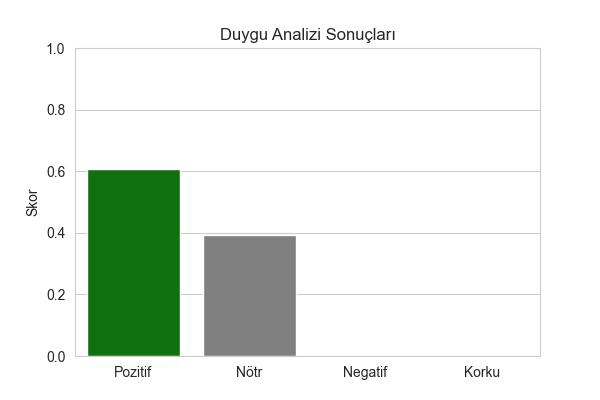
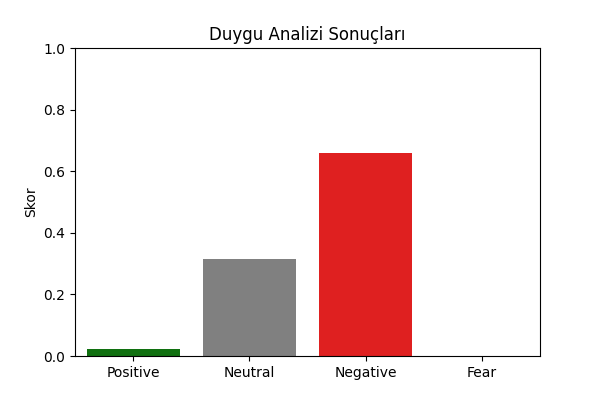
language changes
language changes

diff --git a/duyguAnalizi/templates/index.html b/duyguAnalizi/templates/index.html
@@ -26,18 +26,22 @@
         {% if request.method == 'POST' and 'text' in request.form %}
             <div class="entered-text mb-3">
                 <label for="text" class="form-label">Analiz Edilen Metin:</label>
-                <div class="box" style="background-color: ##e9ecef;">{{ request.form['text'] }}</div>
+                <div class="box" style="background-color: #e9ecef;">{{ request.form['text'] }}</div>
             </div>
         {% endif %}
         {% if sentiment %}
             <div class="result mt-4">
                 <h3>Analiz Sonuçları:</h3>
                 <p>Duygu Durumu: <strong>{{ sentiment }}</strong></p>
-                <p>Pozitif Skor: {{ scores.pos }}</p>
-                <p>Nötr Skor: {{ scores.neu }}</p>
-                <p>Negatif Skor: {{ scores.neg }}</p>
-                <p>Korku Skoru: {{ scores.fear }}</p>
-                <img src="{{ url_for('static', filename='sentiment_analysis.png') }}" alt="Duygu Analizi Grafiği" class="img-fluid mt-3">
+                {% if scores %}
+                    <h4>Duygu Skorları:</h4>
+                    <ul>
+                        {% for label, score in scores.items() %}
+                            <li>{{ label }}: {{ score | round(2) }}</li>
+                        {% endfor %}
+                    </ul>
+                    <img src="{{ url_for('static', filename='sentiment_analysis.png') }}" alt="Duygu Analizi Grafiği" class="img-fluid mt-3">
+                {% endif %}
             </div>
         {% endif %}
     </div>

diff --git a/duyguAnalizi/app.py b/duyguAnalizi/app.py
@@ -1,4 +1,5 @@
 from flask import Flask, render_template, request
+from transformers import pipeline
 from nltk.sentiment import SentimentIntensityAnalyzer
 from deep_translator import GoogleTranslator
 import matplotlib.pyplot as plt
@@ -13,8 +14,11 @@ nltk.download('vader_lexicon')
 # Loglama ayarları yapılıyor
 logging.basicConfig(level=logging.INFO)
 
-# Flask uygulaması oluşturuluyor
+# Flask uygulaması oluştur
 app = Flask(__name__)
+
+# Hugging Face ve NLTK duygu analizi modelleri
+sentiment_pipeline = pipeline("text-classification", model="bhadresh-savani/distilbert-base-uncased-emotion")
 sia = SentimentIntensityAnalyzer()
 
 # "Korku" ile ilişkili kelimelerin listesini verdik korku için daha hassas bir analiz yapabilmek için
@@ -25,84 +29,88 @@ def translate_turkish_to_english(text):
     try:
         return GoogleTranslator(source='tr', target='en').translate(text)
     except Exception as e:
-        return f"Çeviri sırasında hata oluştu: {e}"
-
-# Duygu analizi ve grafik oluşturma fonksiyonu oluşturuluyor
+        logging.error(f"Çeviri sırasında hata oluştu: {e}")
+        return None
+# Ana sayfa rotası
+# Duygu analizi ve grafik oluşturma fonksiyonu
 def sentiment_analyzer_and_plot(text):
     # Metni İngilizceye çevir
     translated_text = translate_turkish_to_english(text)
-    logging.info(f"Translated Text: {translated_text}")
+    if not translated_text:
+        return "Çeviri sırasında hata oluştu.", {}
 
-    # Eğer çeviri sırasında hata oluştuysa hata mesajını döndür
-    if "Çeviri sırasında hata oluştu" in translated_text:
-        return translated_text, {'pos': 0, 'neu': 0, 'neg': 0, 'fear': 0}
+    # Hugging Face duygu analizi yap
+    analysis_results_hf = sentiment_pipeline(translated_text)
+    logging.info(f"Hugging Face Analysis Results: {analysis_results_hf}")
 
-    # VADER ile duygu analizi yap ve sonuçları al
-    sentiment_scores = sia.polarity_scores(translated_text)
-    logging.info(f"Sentiment Scores: {sentiment_scores}")
+    # NLTK duygu analizi yap
+    sentiment_scores_nltk = sia.polarity_scores(translated_text)
+    logging.info(f"NLTK Sentiment Scores: {sentiment_scores_nltk}")
 
-    # "Korku" analizini metin üzerinde kontrol et ve sonucu kaydet
+    # Duyguları ve skorları ayrıştır ve birleştir
+    scores_hf = {result['label']: result['score'] for result in analysis_results_hf}
+    scores_nltk = {'pos': sentiment_scores_nltk['pos'], 'neu': sentiment_scores_nltk['neu'], 'neg': sentiment_scores_nltk['neg']}
     fear_score = any(keyword in text.lower() for keyword in FEAR_KEYWORDS)
-    sentiment_scores['fear'] = 1 if fear_score else 0
 
-    # Duygu analiz sonuçlarını görselleştir ve kaydet
-    labels = ['Pozitif', 'Nötr', 'Negatif', 'Korku']
+    # Skorları normalize et
+    total_score = sum(scores_hf.values()) + sum(scores_nltk.values()) + (1 if fear_score else 0)
+    if total_score > 0:
+        scores_hf = {label: score / total_score for label, score in scores_hf.items()}
+        scores_nltk = {label: score / total_score for label, score in scores_nltk.items()}
+        scores_hf['fear'] = (1 if fear_score else 0) / total_score
+
+    # Duygular ve skorlar
+    labels = ['Positive', 'Neutral', 'Negative', 'Fear']
     values = [
-        sentiment_scores['pos'],
-        sentiment_scores['neu'],
-        sentiment_scores['neg'],
-        sentiment_scores['fear']
+        scores_hf.get("joy", 0) + scores_hf.get("love", 0) + scores_nltk.get('pos', 0),  # Pozitif duygular
+        scores_hf.get("neutral", 0) + scores_nltk.get('neu', 0),  # Nötr
+        scores_hf.get("anger", 0) + scores_hf.get("sadness", 0) + scores_hf.get("disgust", 0) + scores_nltk.get('neg', 0),  # Negatif duygular
+        scores_hf.get('fear', 0)  # Korku
     ]
 
-    # Seaborn ile grafik oluşturma ve kaydetme
+    # Grafik oluşturma
     plt.figure(figsize=(6, 4))
-    sns.set_style("whitegrid")  # Stil ayarı
     sns.barplot(x=labels, y=values, palette=['green', 'gray', 'red', 'purple'])
     plt.title('Duygu Analizi Sonuçları')
     plt.ylabel('Skor')
     plt.ylim(0, 1)
 
-    # Statik dosya dizinini kontrol et ve oluştur
+    # Grafiği kaydet
     if not os.path.exists('static'):
         os.makedirs('static')
-
-    # Grafiği kaydet ve dosya adını döndür
     plt.savefig('static/sentiment_analysis.png')
-    plt.close()  # Grafiği kapat
+    plt.close()
 
-    # Compound skoruna göre duygu etiketi belirle
-    if sentiment_scores['fear'] == 1:
-        sentiment = "korku"
-    elif sentiment_scores['compound'] >= 0.05:
-        sentiment = "pozitif"
-    elif sentiment_scores['compound'] <= -0.05:
-        sentiment = "negatif"
+    # En baskın duyguyu belirle
+    dominant_emotion = max(scores_hf, key=scores_hf.get)
+    if dominant_emotion in ["anger", "sadness", "disgust"]:
+        dominant_emotion = "Negative"
+    elif dominant_emotion in ["joy", "love"]:
+        dominant_emotion = "Positive"
+    elif dominant_emotion == "neutral":
+        dominant_emotion = "Neutral"
     else:
-        sentiment = "nötr"
+        dominant_emotion = "Fear"
 
-    return sentiment, sentiment_scores
+    return dominant_emotion, {**scores_hf, **scores_nltk}
 
 
-# Ana sayfa için route oluşturuluyor ve metin alınıyor ve analiz ediliyor
 @app.route('/', methods=['GET', 'POST'])
 def index():
     text = ""
     sentiment = ""
-    scores = {'pos': 0, 'neu': 0, 'neg': 0, 'fear': 0}
+    scores = {}
     if request.method == 'POST':
         text = request.form['text']
-        logging.info(f"Received text: {text}")
-
-        if text.strip() == "":
+        if not text.strip():
             sentiment = "Lütfen bir metin girin."
         elif len(text) > 500:
             sentiment = "Lütfen 500 karakterden daha kısa bir metin girin."
         else:
             try:
-                sentiment, sentiment_scores = sentiment_analyzer_and_plot(text)
-                scores = sentiment_scores
+                sentiment, scores = sentiment_analyzer_and_plot(text)
             except Exception as e:
-                logging.error(f"Duyarlılık analizi sırasında hata oluştu: {e}")
+                logging.error(f"Hata: {e}")
                 sentiment = "Duygu analizi sırasında bir hata oluştu."
 
     return render_template('index.html', sentiment=sentiment, scores=scores)
